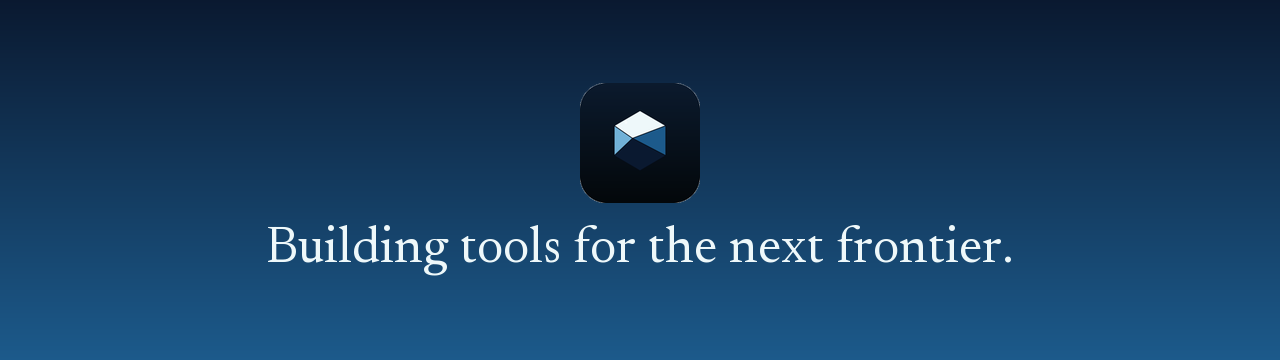
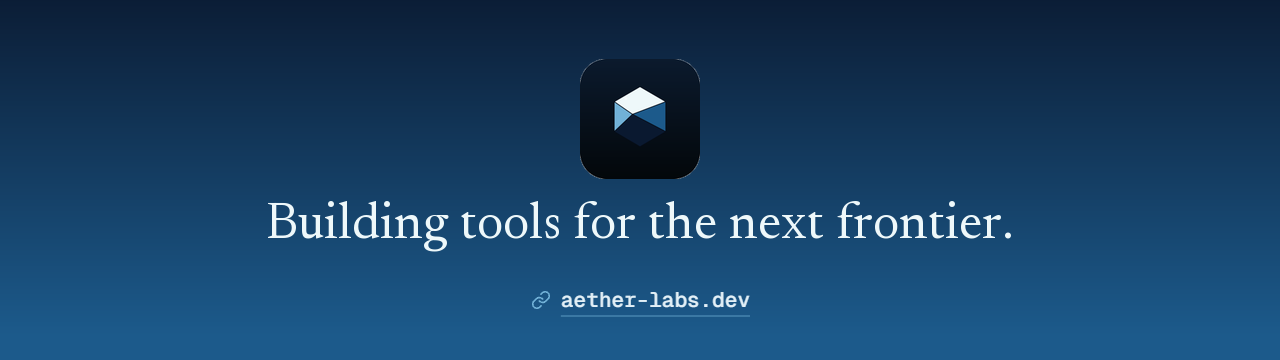
Vulcan hero card and an aether-labs.dev link
The Vulcan pill becomes an animated 8:5 card (40-column ASCII flame on the
ember gradient, sparks rising) so it lines up with Clawd's cell. The tagline
banner gains a link icon and aether-labs.dev, and the banner links there.

Changed region(s): [[0.1875, 0.4583, 0.7812, 0.7639], [0.4375, 0.1833, 0.5625, 0.4583], [0.4062, 0.7944, 0.5938, 0.8861]]

diff --git a/README.md b/README.md
@@ -3,12 +3,12 @@
 </p>
 
 <p align="center">
-  <img src="banner-blue.png" alt="Aether logo above the line: Building tools for the next frontier." width="100%">
+  <a href="https://aether-labs.dev"><img src="banner-blue.png" alt="Aether logo above the line: Building tools for the next frontier. Below it, a link icon and aether-labs.dev." width="100%"></a>
 </p>
 
 <table>
   <tr>
-    <td width="50%" valign="middle" align="center"><img src="vulcan-pill.png" alt="Vulcan logo: a black ASCII flame on a pill with the Vulcan ember gradient, from red at the top to cream at the foot" width="100%"></td>
+    <td width="50%" valign="middle" align="center"><img src="vulcan-card.webp" alt="Vulcan logo: an animated black ASCII flame on a card with the Vulcan ember gradient, sparks rising off its tips" width="100%"></td>
     <td width="50%" valign="middle" align="center"><img src="clawd-palm.gif" alt="Clawd, Claude Code's mascot, relaxing in sunglasses under a palm tree" width="100%"></td>
   </tr>
 </table>
